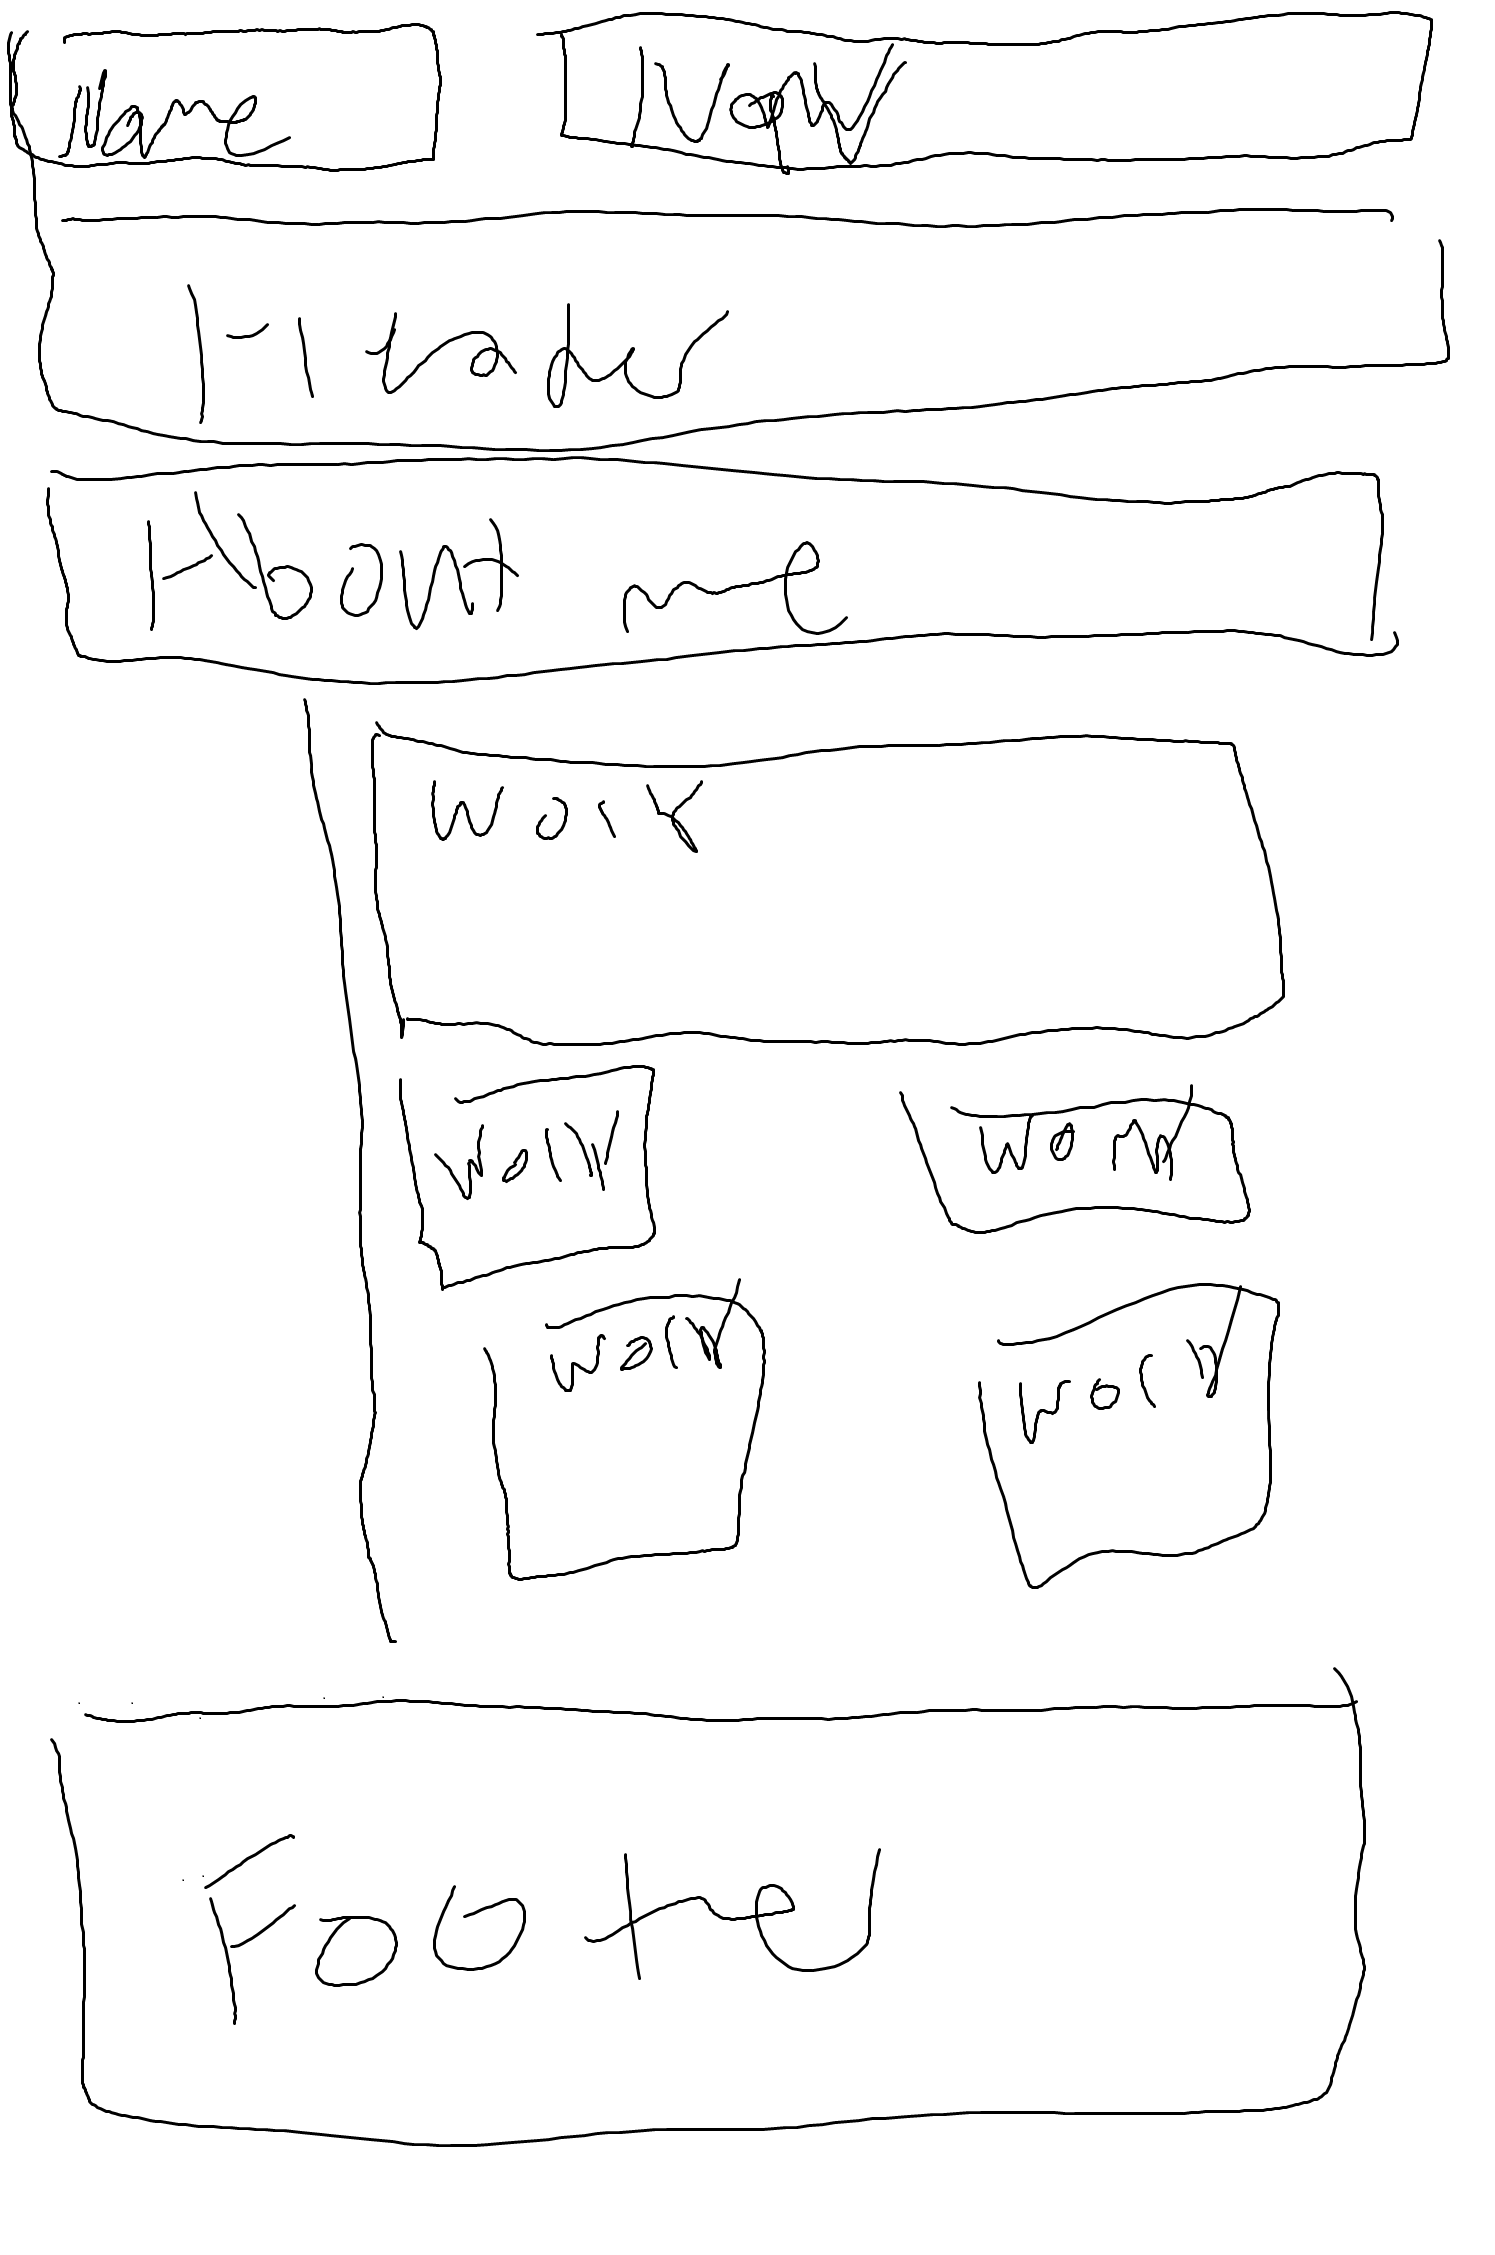
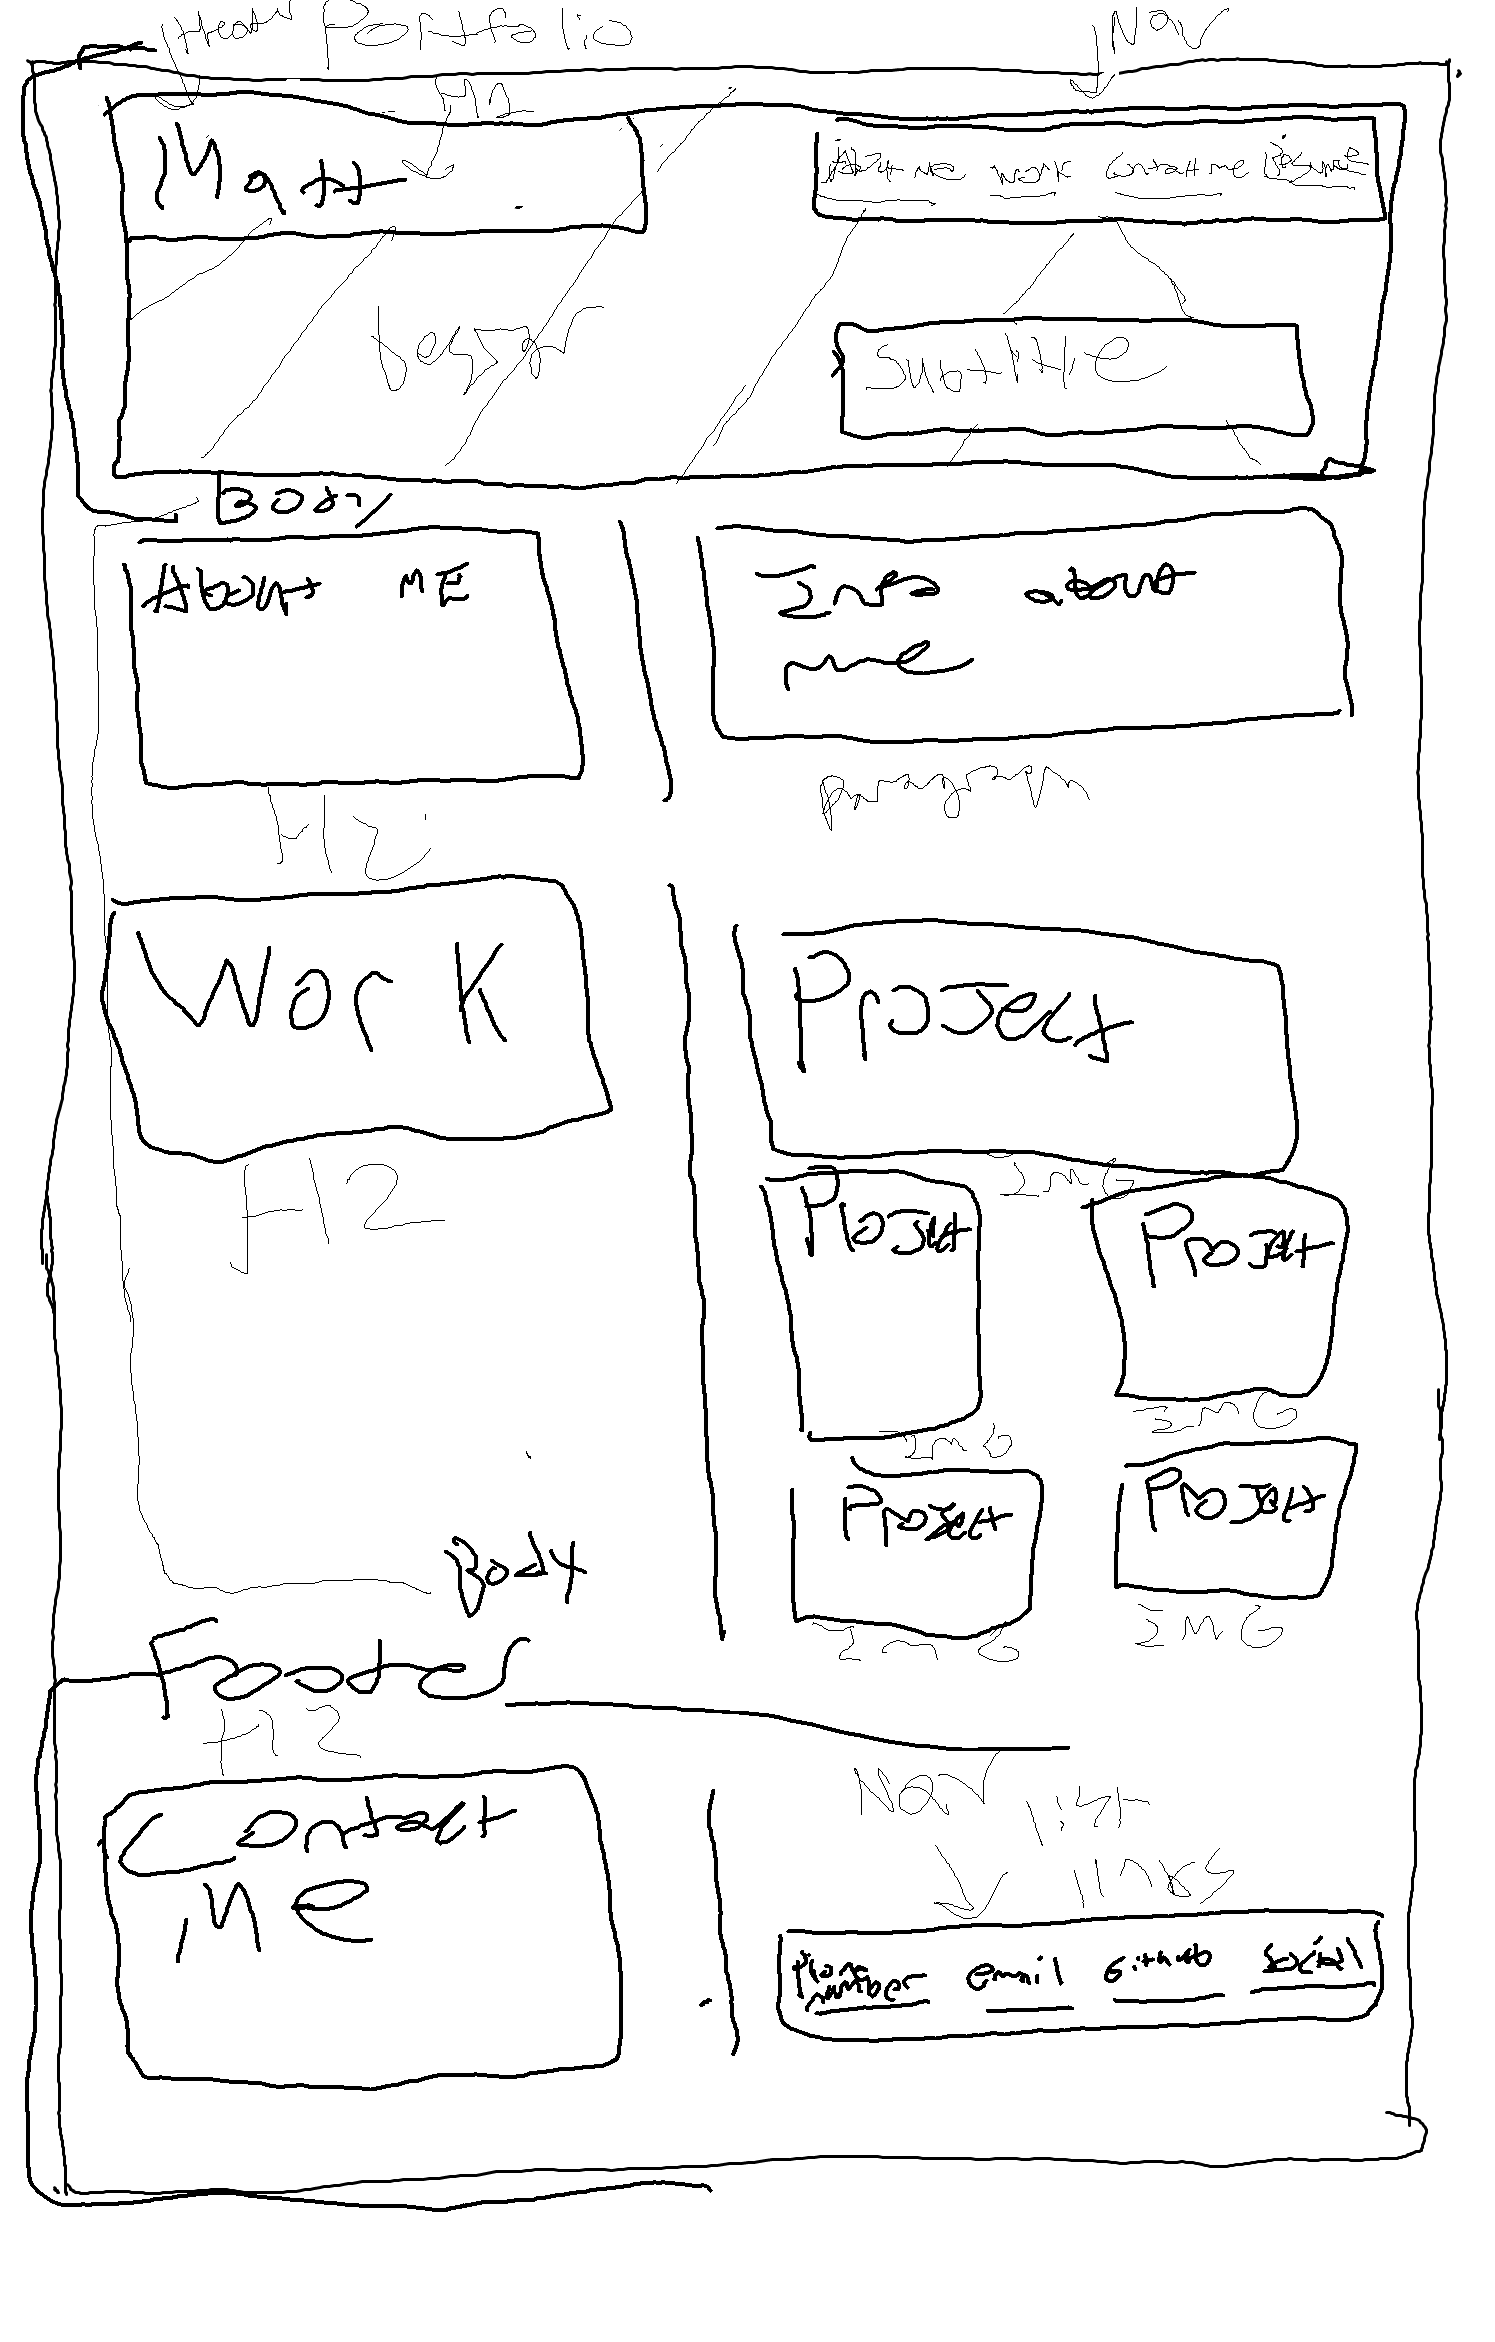
skeleton

diff --git a/index.html b/index.html
@@ -4,9 +4,54 @@
     <meta charset="UTF-8">
     <meta http-equiv="X-UA-Compatible" content="IE=edge">
     <meta name="viewport" content="width=device-width, initial-scale=1.0">
-    <title>Document</title>
+    <title>Portfolio</title>
+    <link rel:="stylesheet" href="style.css">
 </head>
+
 <body>
-    
+    <header>
+        <h1>Matthew Garry</h1>
+        <nav>
+            <ul>
+                <li>About Me</li>
+                <li>Work</li>
+                <li>Contact Me</li>
+                <li>Resume</li>
+            </ul>
+
+        </nav>
+
+        <h1>Subtitle</h1>
+    </header>
+
+    <main>
+        <h2>About Me</h2>
+        <section>
+            <p>about me text</p>
+            <p>about me texst</p>
+        </section>
+
+        <h2>Work</h2>
+        <section>
+           <img>
+           <img>
+           <img>
+           <img>
+           <img>
+        </section>
+    </main>
+
+    <footer>
+        <h3>Contact Me</h3>
+        
+        <nav>
+            <ul>
+                <li>phone number</li>
+                <li>email</li>
+                <li>github</li>
+                <li>socials</li>
+            </ul>
+        </nav>
+    </footer>
 </body>
 </html>
